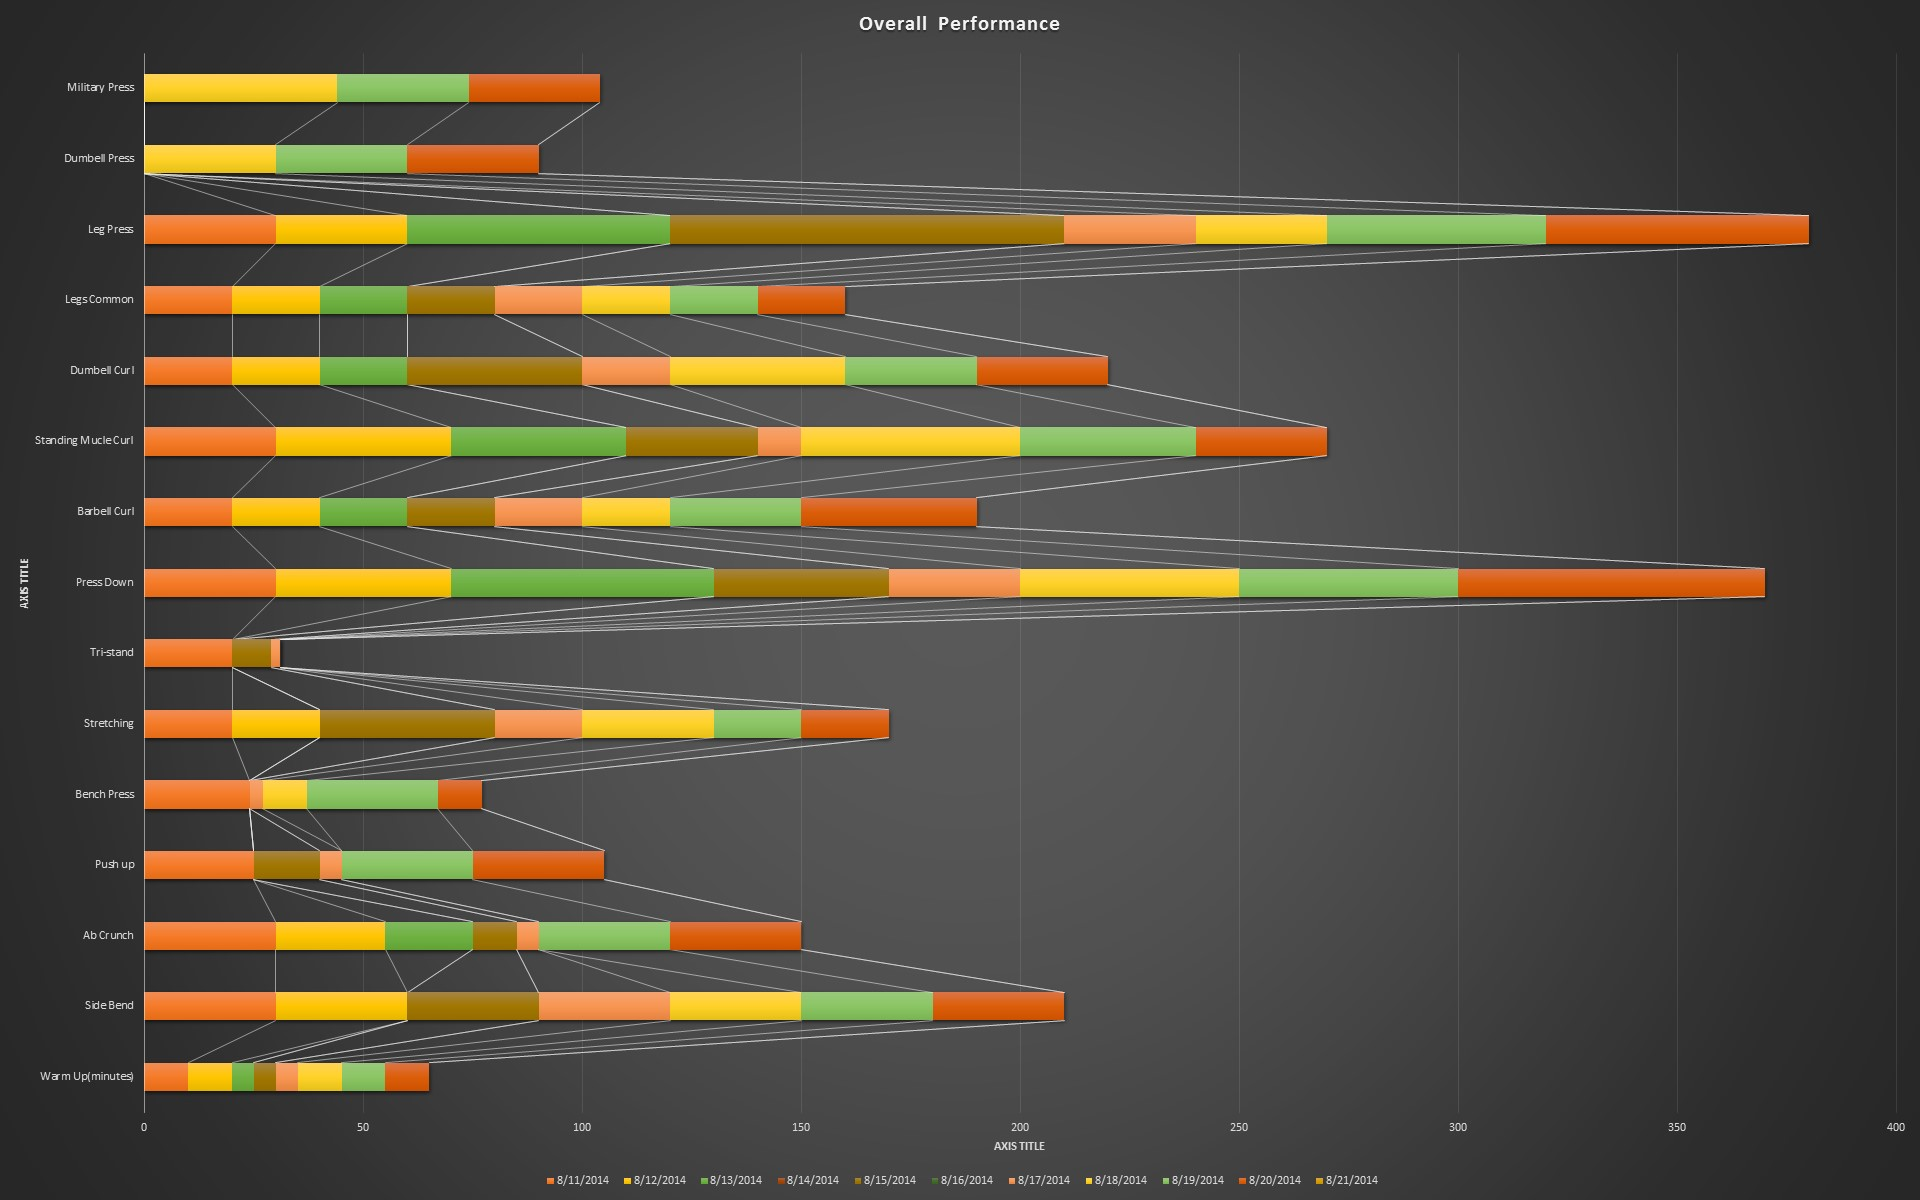
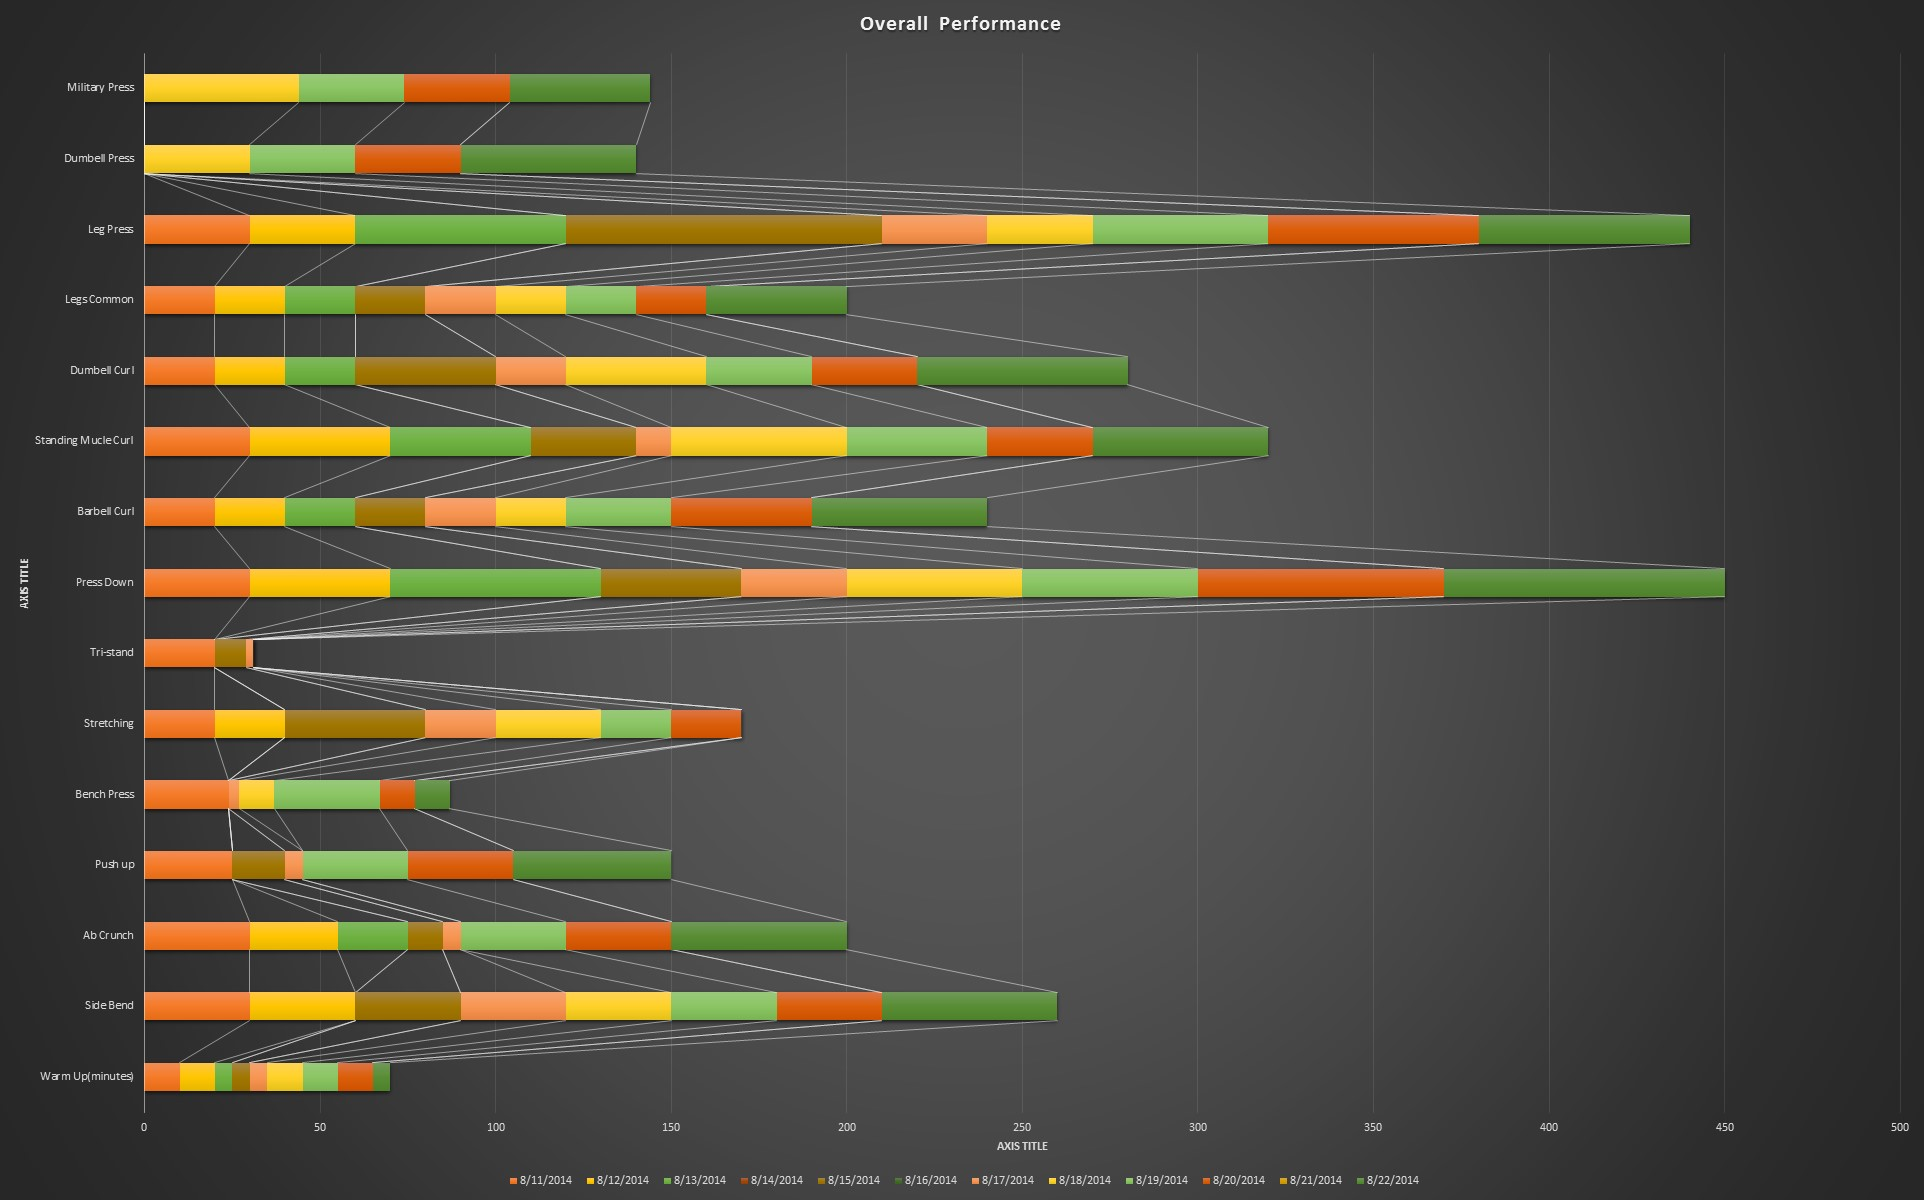
Fitness Update

Changed region(s): [[0.0625, 0.0617, 0.9688, 0.925], [0.2812, 0.9558, 0.7188, 0.9867], [0.4688, 0.0, 0.5312, 0.0308]]

diff --git a/_includes/fitnesstracker.html b/_includes/fitnesstracker.html
@@ -118,6 +118,14 @@
 					"title": "8/21/2014",
 					"type": "column",
 					"valueField": "8/21/2014"
+				},
+				{
+					"balloonText": "[[category]]: [[value]] times on [[title]]",
+					"fillAlphas": 1,
+					"id": "8/22/2014",
+					"title": "8/22/2014",
+					"type": "column",
+					"valueField": "8/22/2014"
 				}
 			],
 			"guides": [],
@@ -155,7 +163,8 @@
 					"8/18/2014": "10",
 					"8/19/2014": "10",
 					"8/20/2014": "10",
-					"8/21/2014": 0
+					"8/21/2014": 0,
+					"8/22/2014": "5"
 				},
 				{
 					"8/11/2014": "30",
@@ -169,7 +178,8 @@
 					"8/18/2014": "30",
 					"8/19/2014": "30",
 					"8/20/2014": "30",
-					"8/21/2014": 0
+					"8/21/2014": 0,
+					"8/22/2014": "50"
 				},
 				{
 					"8/11/2014": "30",
@@ -183,7 +193,8 @@
 					"8/18/2014": "0",
 					"8/19/2014": "30",
 					"8/20/2014": "30",
-					"8/21/2014": 0
+					"8/21/2014": 0,
+					"8/22/2014": "50"
 				},
 				{
 					"8/11/2014": "25",
@@ -197,7 +208,8 @@
 					"8/18/2014": "0",
 					"8/19/2014": "30",
 					"8/20/2014": "30",
-					"8/21/2014": 0
+					"8/21/2014": 0,
+					"8/22/2014": "45"
 				},
 				{
 					"8/11/2014": "24",
@@ -211,7 +223,8 @@
 					"8/18/2014": "10",
 					"8/19/2014": "30",
 					"8/20/2014": "10",
-					"8/21/2014": 0
+					"8/21/2014": 0,
+					"8/22/2014": "10"
 				},
 				{
 					"8/11/2014": "20",
@@ -225,7 +238,8 @@
 					"8/18/2014": "30",
 					"8/19/2014": "20",
 					"8/20/2014": "20",
-					"8/21/2014": 0
+					"8/21/2014": 0,
+					"8/22/2014": "0"
 				},
 				{
 					"8/11/2014": "20",
@@ -239,7 +253,8 @@
 					"8/18/2014": "0",
 					"8/19/2014": "0",
 					"8/20/2014": "0",
-					"8/21/2014": 0
+					"8/21/2014": 0,
+					"8/22/2014": "0"
 				},
 				{
 					"8/11/2014": "30",
@@ -253,7 +268,8 @@
 					"8/18/2014": "50",
 					"8/19/2014": "50",
 					"8/20/2014": "70",
-					"8/21/2014": 0
+					"8/21/2014": 0,
+					"8/22/2014": "80"
 				},
 				{
 					"8/11/2014": "20",
@@ -267,7 +283,8 @@
 					"8/18/2014": "20",
 					"8/19/2014": "30",
 					"8/20/2014": "40",
-					"8/21/2014": 0
+					"8/21/2014": 0,
+					"8/22/2014": "50"
 				},
 				{
 					"8/11/2014": "30",
@@ -281,7 +298,8 @@
 					"8/18/2014": "50",
 					"8/19/2014": "40",
 					"8/20/2014": "30",
-					"8/21/2014": 0
+					"8/21/2014": 0,
+					"8/22/2014": "50"
 				},
 				{
 					"8/11/2014": "20",
@@ -295,7 +313,8 @@
 					"8/18/2014": "40",
 					"8/19/2014": "30",
 					"8/20/2014": "30",
-					"8/21/2014": 0
+					"8/21/2014": 0,
+					"8/22/2014": "60"
 				},
 				{
 					"8/11/2014": "20",
@@ -309,7 +328,8 @@
 					"8/18/2014": "20",
 					"8/19/2014": "20",
 					"8/20/2014": "20",
-					"8/21/2014": 0
+					"8/21/2014": 0,
+					"8/22/2014": "40"
 				},
 				{
 					"8/11/2014": "30",
@@ -323,7 +343,8 @@
 					"8/18/2014": "30",
 					"8/19/2014": "50",
 					"8/20/2014": "60",
-					"8/21/2014": 0
+					"8/21/2014": 0,
+					"8/22/2014": "60"
 				},
 				{
 					"8/11/2014": "0",
@@ -337,7 +358,8 @@
 					"8/18/2014": "30",
 					"8/19/2014": "30",
 					"8/20/2014": "30",
-					"8/21/2014": 0
+					"8/21/2014": 0,
+					"8/22/2014": "50"
 				},
 				{
 					"8/11/2014": "0",
@@ -351,7 +373,8 @@
 					"8/18/2014": "44",
 					"8/19/2014": "30",
 					"8/20/2014": "30",
-					"8/21/2014": 0
+					"8/21/2014": 0,
+					"8/22/2014": "40"
 				}
 			]
 		}

diff --git a/_posts/2014-08-11-fitness-tracker.md b/_posts/2014-08-11-fitness-tracker.md
@@ -3,7 +3,7 @@ layout: post
 title: "Fitness Tracker"
 description: Tracking my gym activities
 headline: 
-modified: 2014-08-21 15:28:00 +0600
+modified: 2014-08-22 21:06:00 +0600
 category: personal
 tags: [gym, fitness]
 imagefeature: 
@@ -39,7 +39,7 @@ This graph is generated using a [amCharts.JS](http://www.amcharts.com/) and is u
 .tg th{font-family:Arial, sans-serif;font-size:14px;font-weight:normal;padding:10px 5px;border-style:solid;border-width:1px;overflow:hidden;word-break:normal;border-color:#aaa;color:#fff;background-color:#f38630;}
 .tg .tg-z2zr{background-color:#FCFBE3}
 </style>
-<table class="tg row" style="width:100%">
+<table class="tg" style="width:100%">
   <tr>
     <th class="tg-031e">Exercises</th>
     <th class="tg-031e">8/11/2014</th>
@@ -53,6 +53,7 @@ This graph is generated using a [amCharts.JS](http://www.amcharts.com/) and is u
     <th class="tg-031e">8/19/2014</th>
     <th class="tg-031e">8/20/2014</th>
     <th class="tg-031e">8/21/2014</th>
+    <th class="tg-031e">8/22/2014</th>
   </tr>
   <tr>
     <td class="tg-031e">Warm Up(minutes)</td>
@@ -67,6 +68,7 @@ This graph is generated using a [amCharts.JS](http://www.amcharts.com/) and is u
     <td class="tg-031e">10</td>
     <td class="tg-031e">10</td>
     <td class="tg-031e">0</td>
+    <td class="tg-031e">5</td>
   </tr>
   <tr>
     <td class="tg-031e">Side Bend</td>
@@ -81,6 +83,7 @@ This graph is generated using a [amCharts.JS](http://www.amcharts.com/) and is u
     <td class="tg-031e">30</td>
     <td class="tg-031e">30</td>
     <td class="tg-031e">0</td>
+    <td class="tg-031e">50</td>
   </tr>
   <tr>
     <td class="tg-031e">Ab Crunch</td>
@@ -95,6 +98,7 @@ This graph is generated using a [amCharts.JS](http://www.amcharts.com/) and is u
     <td class="tg-031e">30</td>
     <td class="tg-031e">30</td>
     <td class="tg-031e">0</td>
+    <td class="tg-031e">50</td>
   </tr>
   <tr>
     <td class="tg-031e">Push up</td>
@@ -109,6 +113,7 @@ This graph is generated using a [amCharts.JS](http://www.amcharts.com/) and is u
     <td class="tg-031e">30</td>
     <td class="tg-031e">30</td>
     <td class="tg-031e">0</td>
+    <td class="tg-031e">45</td>
   </tr>
   <tr>
     <td class="tg-031e">Bench Press</td>
@@ -123,6 +128,7 @@ This graph is generated using a [amCharts.JS](http://www.amcharts.com/) and is u
     <td class="tg-031e">30</td>
     <td class="tg-031e">10</td>
     <td class="tg-031e">0</td>
+    <td class="tg-031e">10</td>
   </tr>
   <tr>
     <td class="tg-031e">Stretching</td>
@@ -137,6 +143,7 @@ This graph is generated using a [amCharts.JS](http://www.amcharts.com/) and is u
     <td class="tg-031e">20</td>
     <td class="tg-031e">20</td>
     <td class="tg-031e">0</td>
+    <td class="tg-031e">0</td>
   </tr>
   <tr>
     <td class="tg-031e">Tri-stand</td>
@@ -147,6 +154,7 @@ This graph is generated using a [amCharts.JS](http://www.amcharts.com/) and is u
     <td class="tg-031e">9</td>
     <td class="tg-031e">0</td>
     <td class="tg-031e">2</td>
+    <td class="tg-031e">0</td>
     <td class="tg-031e">0</td>
     <td class="tg-031e">0</td>
     <td class="tg-031e">0</td>
@@ -165,6 +173,7 @@ This graph is generated using a [amCharts.JS](http://www.amcharts.com/) and is u
     <td class="tg-031e">50</td>
     <td class="tg-031e">70</td>
     <td class="tg-031e">0</td>
+    <td class="tg-031e">80</td>
   </tr>
   <tr>
     <td class="tg-031e">Barbell Curl</td>
@@ -179,6 +188,7 @@ This graph is generated using a [amCharts.JS](http://www.amcharts.com/) and is u
     <td class="tg-031e">30</td>
     <td class="tg-031e">40</td>
     <td class="tg-031e">0</td>
+    <td class="tg-031e">50</td>
   </tr>
   <tr>
     <td class="tg-031e">Standing Mucle Curl</td>
@@ -193,6 +203,7 @@ This graph is generated using a [amCharts.JS](http://www.amcharts.com/) and is u
     <td class="tg-031e">40</td>
     <td class="tg-031e">30</td>
     <td class="tg-031e">0</td>
+    <td class="tg-031e">50</td>
   </tr>
   <tr>
     <td class="tg-031e">Dumbell Curl</td>
@@ -207,6 +218,7 @@ This graph is generated using a [amCharts.JS](http://www.amcharts.com/) and is u
     <td class="tg-031e">30</td>
     <td class="tg-031e">30</td>
     <td class="tg-031e">0</td>
+    <td class="tg-031e">60</td>
   </tr>
   <tr>
     <td class="tg-031e">Legs Common</td>
@@ -221,6 +233,7 @@ This graph is generated using a [amCharts.JS](http://www.amcharts.com/) and is u
     <td class="tg-031e">20</td>
     <td class="tg-031e">20</td>
     <td class="tg-031e">0</td>
+    <td class="tg-031e">40</td>
   </tr>
   <tr>
     <td class="tg-031e">Leg Press</td>
@@ -235,6 +248,7 @@ This graph is generated using a [amCharts.JS](http://www.amcharts.com/) and is u
     <td class="tg-031e">50</td>
     <td class="tg-031e">60</td>
     <td class="tg-031e">0</td>
+    <td class="tg-031e">60</td>
   </tr>
   <tr>
     <td class="tg-031e">Dumbell Press</td>
@@ -249,6 +263,7 @@ This graph is generated using a [amCharts.JS](http://www.amcharts.com/) and is u
     <td class="tg-031e">30</td>
     <td class="tg-031e">30</td>
     <td class="tg-031e">0</td>
+    <td class="tg-031e">50</td>
   </tr>
   <tr>
     <td class="tg-031e">Military Press</td>
@@ -263,6 +278,7 @@ This graph is generated using a [amCharts.JS](http://www.amcharts.com/) and is u
     <td class="tg-031e">30</td>
     <td class="tg-031e">30</td>
     <td class="tg-031e">0</td>
+    <td class="tg-031e">40</td>
   </tr>
 </table>
 
